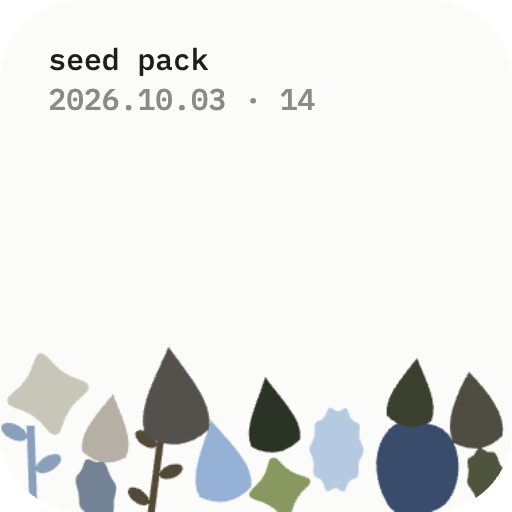
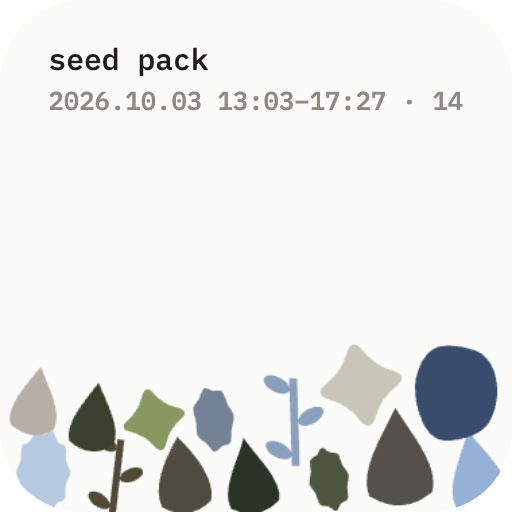
種の庭：植物を選ぶと写真の「気配」、持ち主の合言葉で写真を 20 秒だけ表示（サンプル 2 パックに暗号化した写真）
Claude-Session: https://claude.ai/code/session_01D7U7FPs5nFgsjLUDrxworf

Changed region(s): [[0.0, 0.6562, 1.0, 1.0], [0.0938, 0.1562, 0.75, 0.2188], [0.8438, 0.1562, 0.9062, 0.2188]]

diff --git a/garden.html b/garden.html
@@ -23,6 +23,22 @@
   .pill { height: 38px; padding: 0 22px; border-radius: 19px; font: 500 14px "IBM Plex Mono", "Noto Sans JP", "Noto Sans SC", monospace; cursor: pointer; border: 1.5px solid #201e1d; background: transparent; color: #201e1d; display: flex; align-items: center; }
   .pill.dark { background: #201e1d; color: #f3f2f2; border: 0; }
   #msg { position: absolute; right: 50px; top: 20px; font: 400 14px "Noto Sans JP", "Noto Sans SC"; color: #a0532e; z-index: 60; }
+  /* 植物を選んだとき：その写真の「気配」（空の色・色のかたまり・物体の位置）。合言葉で本物の写真 */
+  #kehai { position: absolute; left: 60px; top: 150px; width: 270px; display: none; flex-direction: column; gap: 10px; z-index: 30; }
+  #kehai.on { display: flex; }
+  #kehai .fr { position: relative; width: 270px; border-radius: 22px; overflow: hidden; background: #fbfbf9; box-shadow: 0 1px 2px rgba(0,0,0,.06), 0 10px 28px rgba(30,30,25,.14); }
+  #kehai canvas, #kehai img { position: absolute; left: 0; top: 0; width: 100%; height: 100%; }
+  #kehai .blob { filter: blur(14px); transform: scale(1.12); }
+  #kehai img { object-fit: cover; opacity: 0; transition: opacity 1.2s; }
+  #kehai img.on { opacity: 1; }
+  #kehai .meta { display: flex; align-items: center; gap: 8px; font: 500 13px 'IBM Plex Mono', 'Noto Sans JP', monospace; }
+  #kehai .dot { width: 9px; height: 9px; border-radius: 50%; }
+  #kehai .tm { color: #8d8a84; margin-left: auto; }
+  #kehai .kw { font: 400 13px 'Noto Sans JP', sans-serif; color: #605d5d; }
+  #kehai .pass { display: none; gap: 8px; } #kehai .pass.on { display: flex; }
+  #kehai .pass input { flex: 1; min-width: 0; height: 38px; border-radius: 19px; border: 1.5px solid #201e1d; background: #fbfbf9; padding: 0 14px; font: 500 14px 'Noto Sans JP', sans-serif; outline: none; }
+  #kehai .note { font: 400 12px 'Noto Sans JP', sans-serif; color: #a0532e; min-height: 16px; }
+  #kehai .shake { animation: shake .35s; } @keyframes shake { 25% { transform: translateX(-6px) } 75% { transform: translateX(6px) } }
   #trayHint { font: 400 12px 'IBM Plex Mono', 'Noto Sans SC', monospace; color: #8d8a84; line-height: 1.5; }
 </style>
 </head>
@@ -37,11 +53,20 @@
     <button class="pill" id="clearAll">クリア</button>
   </div>
   <div id="msg"></div>
+  <div id="kehai">
+    <div class="fr"><canvas class="blob" width="520" height="520"></canvas><canvas class="line" width="520" height="520"></canvas><img class="photo" alt=""></div>
+    <div class="meta"><i class="dot"></i><span class="who"></span><span class="tm"></span></div>
+    <div class="kw"></div>
+    <div class="ask"><button class="pill" id="askBtn">写真を見る</button></div>
+    <div class="pass"><input id="passIn" type="password" placeholder="持ち主の合言葉" autocomplete="off"><button class="pill dark" id="passGo">開く</button></div>
+    <div class="note"></div>
+  </div>
   <div id="tray"></div>
 </div>
 
 <script src="lib/seedcore_lsys1.js"></script>
 <script src="lib/seedpack_png.js?v=2"></script>
+<script src="lib/seedvault.js"></script>
 <script>
 // ===== 种子花园 v0.3：透视的地面；种子包先放在旁边，由每个人自己拖到地面上撒 =====
 const cv = document.getElementById('cv'), ctx = cv.getContext('2d'), CW = 1600, CH = 936, DPR = 2;
@@ -197,6 +222,7 @@ function frame(now) {
     if (it.grow < .6) { ctx.save(); ctx.globalAlpha = 1 - it.grow / .6; drawSeed(ctx, it, p[0] + it.dx * 1, p[1] - it.fall); ctx.restore(); }
   }
   links(ctx, now); timeline(ctx);
+  if (sel !== khSel) showKehai(sel);
 }
 // ---------- 方案 5：时间的重合 ----------
 // 点一株植物 → 天空变成它那张照片的天空；别人（其他种子包）在前后 30 分钟内拍下的植物，和它之间连起一条细线；下方时间轴标出拍摄时刻
@@ -238,6 +264,46 @@ function timeline(c) {
   else { c.textAlign = 'left'; c.fillText(hm(t0), X0, Y + 20); c.textAlign = 'right'; c.fillText(hm(t1), X1, Y + 20); }
   c.restore();
 }
+// ---------- 気配と写真 ----------
+const KW = { '晴': '晴れ', '阴': 'くもり', '黄昏': '夕暮れ', '池塘': '池', '自行车': '自転車', '野餐': 'ピクニック', '街道': '街', '河边': '川辺', '鸟': '鳥', '树林': '林', '公园': '公園', '食物': '食べ物', '动物': '動物' };
+const OBJ_JA = { bicycle: '自転車', bird: '鳥', person: '人', pizza: 'ピザ', cup: 'カップ', bowl: 'お椀', 'dining table': 'テーブル', dog: '犬', cat: '猫', motorcycle: 'バイク', bottle: 'ボトル', cake: 'ケーキ', sandwich: 'サンドイッチ' };
+const kh = document.getElementById('kehai'), khImg = kh.querySelector('.photo'); let khSel = null, khTimer = null;
+function packOf(it) { const P = packs.find(p => p.pack.id === it.pk); return P && P.pack; }
+function showKehai(it) {
+  khSel = it; clearTimeout(khTimer); khImg.classList.remove('on'); kh.querySelector('.pass').classList.remove('on'); kh.querySelector('.note').textContent = '';
+  if (!it) { kh.classList.remove('on'); return; }
+  const sd = it.sd, pk = packOf(it) || {}, fr = sd.frame || { aspect: 1.333 }, W = 270, H = Math.round(Math.max(200, Math.min(360, W / fr.aspect)));
+  kh.querySelector('.fr').style.height = H + 'px';
+  const b = kh.querySelector('.blob').getContext('2d'), l = kh.querySelector('.line').getContext('2d'), CWk = 520, CHk = 520;
+  b.clearRect(0, 0, CWk, CHk); l.clearRect(0, 0, CWk, CHk);
+  // 上：空の 5 色（上→下）、下：その写真の主な色のかたまり
+  const sky = sd.sky || ['#cfd8e2', '#d8dfe7', '#e2e7ec', '#ebeef1', '#f1f2f3'], g = b.createLinearGradient(0, 0, 0, CHk * .55);
+  sky.forEach((c, i) => g.addColorStop(i / (sky.length - 1), c)); b.fillStyle = g; b.fillRect(0, 0, CWk, CHk * .6);
+  const cols = [sd.color.base, sd.color.leaf, sd.color.stem, ...(sd.color.flower || [])].filter(Boolean), R = rng(sd.plant.seed);
+  b.fillStyle = sd.color.base || '#a9a59a'; b.fillRect(0, CHk * .5, CWk, CHk * .5);
+  for (let i = 0; i < 14; i++) { b.fillStyle = cols[i % cols.length]; b.globalAlpha = .75; b.beginPath(); b.ellipse(R() * CWk, CHk * (.5 + R() * .5), 40 + R() * 90, 25 + R() * 50, 0, 0, Math.PI * 2); b.fill(); }
+  b.globalAlpha = 1;
+  // 物体があった場所：持ち主の色の点線
+  if (fr.obj) { const [x, y, w, h] = fr.obj; l.strokeStyle = it.ocol || '#201e1d'; l.lineWidth = 4; l.setLineDash([10, 10]); l.strokeRect(x * CWk, y * CHk, w * CWk, h * CHk); }
+  const own = pk.owner || {}; kh.querySelector('.dot').style.background = it.ocol || '#999'; kh.querySelector('.who').textContent = own.name || 'seed pack';
+  const m = /T(\d\d:\d\d)/.exec(sd.t || ''); kh.querySelector('.tm').textContent = m ? m[1] : '';
+  const tg = sd.tags || {}, words = [KW[tg.weather] || tg.weather, OBJ_JA[tg.object] || KW[tg.scene] || tg.scene].filter(Boolean);
+  kh.querySelector('.kw').textContent = words.join(' · ');
+  kh.querySelector('.ask').style.display = pk.vault && pk.vault.photos[sd.id] ? '' : 'none';
+  kh.classList.add('on');
+}
+document.getElementById('askBtn').onclick = () => { kh.querySelector('.pass').classList.add('on'); const i = document.getElementById('passIn'); i.value = ''; i.focus(); };
+async function tryOpen() {
+  const it = khSel, pk = it && packOf(it), inp = document.getElementById('passIn'), note = kh.querySelector('.note'); if (!pk) return;
+  note.textContent = '…'; const key = await vaultKey(pk, inp.value);
+  if (!key) { note.textContent = '合言葉が違います'; inp.classList.remove('shake'); void inp.offsetWidth; inp.classList.add('shake'); return; }
+  const url = await vaultPhoto(pk, key, it.sd.id); inp.value = ''; kh.querySelector('.pass').classList.remove('on'); note.textContent = '';
+  khImg.src = url; khImg.onload = () => khImg.classList.add('on');
+  // しばらく見せたら、また気配にもどる（写真は残さない）
+  clearTimeout(khTimer); khTimer = setTimeout(() => { khImg.classList.remove('on'); setTimeout(() => { URL.revokeObjectURL(url); khImg.removeAttribute('src'); }, 1300); }, 20000);
+}
+document.getElementById('passGo').onclick = tryOpen;
+document.getElementById('passIn').addEventListener('keydown', e => { if (e.key === 'Enter') tryOpen(); });
 function pick(bx, by) {
   const hit = items.filter(it => it.box && it.grow > .5 && bx >= it.box[0] && bx <= it.box[0] + it.box[2] && by >= it.box[1] && by <= it.box[1] + it.box[3]);
   if (!hit.length) return null;

diff --git a/lib/seedvault.js b/lib/seedvault.js
@@ -1,0 +1,38 @@
+// 種パックの「写真の金庫」：写真を合言葉で暗号化して種パックに入れておき、持ち主が合言葉を入れたときだけ開く
+// pack.vault = { v:1, salt, iter, check:{iv,data}, photos:{ <seed id>: {iv, data} } }   （data は base64）
+// 合言葉は種パックの中には入れない。暗号は WebCrypto（PBKDF2-SHA256 → AES-GCM 256）
+(function () {
+  const b64 = u8 => { let s = ''; for (let i = 0; i < u8.length; i += 0x8000) s += String.fromCharCode.apply(null, u8.subarray(i, i + 0x8000)); return btoa(s); };
+  const unb64 = s => Uint8Array.from(atob(s), c => c.charCodeAt(0));
+  // 「そら・みず・はな」「そら みず はな」「そらみずはな」を同じにする
+  const normPass = p => (p || '').normalize('NFKC').replace(/[\s・･,、.。\-ー]/g, '').replace(/[ァ-ン]/g, c => String.fromCharCode(c.charCodeAt(0) - 0x60));
+  async function deriveKey(pass, salt, iter) {
+    const base = await crypto.subtle.importKey('raw', new TextEncoder().encode(normPass(pass)), 'PBKDF2', false, ['deriveKey']);
+    return crypto.subtle.deriveKey({ name: 'PBKDF2', salt, iterations: iter, hash: 'SHA-256' }, base, { name: 'AES-GCM', length: 256 }, false, ['encrypt', 'decrypt']);
+  }
+  async function seal(key, bytes) { const iv = crypto.getRandomValues(new Uint8Array(12)); const ct = new Uint8Array(await crypto.subtle.encrypt({ name: 'AES-GCM', iv }, key, bytes)); return { iv: b64(iv), data: b64(ct) }; }
+  async function open(key, box) { return new Uint8Array(await crypto.subtle.decrypt({ name: 'AES-GCM', iv: unb64(box.iv) }, key, unb64(box.data))); }
+  // 写真を小さく（長辺 720px の JPEG）
+  async function shrink(img, max = 720) {
+    const k = Math.min(1, max / Math.max(img.naturalWidth || img.width, img.naturalHeight || img.height)), c = document.createElement('canvas');
+    c.width = Math.round((img.naturalWidth || img.width) * k); c.height = Math.round((img.naturalHeight || img.height) * k); c.getContext('2d').drawImage(img, 0, 0, c.width, c.height);
+    return new Uint8Array(await (await new Promise(r => c.toBlob(r, 'image/jpeg', .78))).arrayBuffer());
+  }
+  // photos: { <seed id>: HTMLImageElement }
+  async function vaultSeal(pack, pass, photos) {
+    const salt = crypto.getRandomValues(new Uint8Array(16)), iter = 150000, key = await deriveKey(pass, salt, iter), out = {};
+    for (const [id, img] of Object.entries(photos)) out[id] = await seal(key, await shrink(img));
+    pack.vault = { v: 1, salt: b64(salt), iter, check: await seal(key, new TextEncoder().encode('seedvault')), photos: out };
+    return pack;
+  }
+  // 合言葉が合っていれば key を返す（違えば null）
+  async function vaultKey(pack, pass) {
+    const v = pack && pack.vault; if (!v) return null;
+    try { const key = await deriveKey(pass, unb64(v.salt), v.iter); const t = new TextDecoder().decode(await open(key, v.check)); return t === 'seedvault' ? key : null; } catch (e) { return null; }
+  }
+  async function vaultPhoto(pack, key, seedId) {
+    const box = pack.vault && pack.vault.photos[seedId]; if (!box || !key) return null;
+    return URL.createObjectURL(new Blob([await open(key, box)], { type: 'image/jpeg' }));
+  }
+  Object.assign(window, { vaultSeal, vaultKey, vaultPhoto, normPass });
+})();
